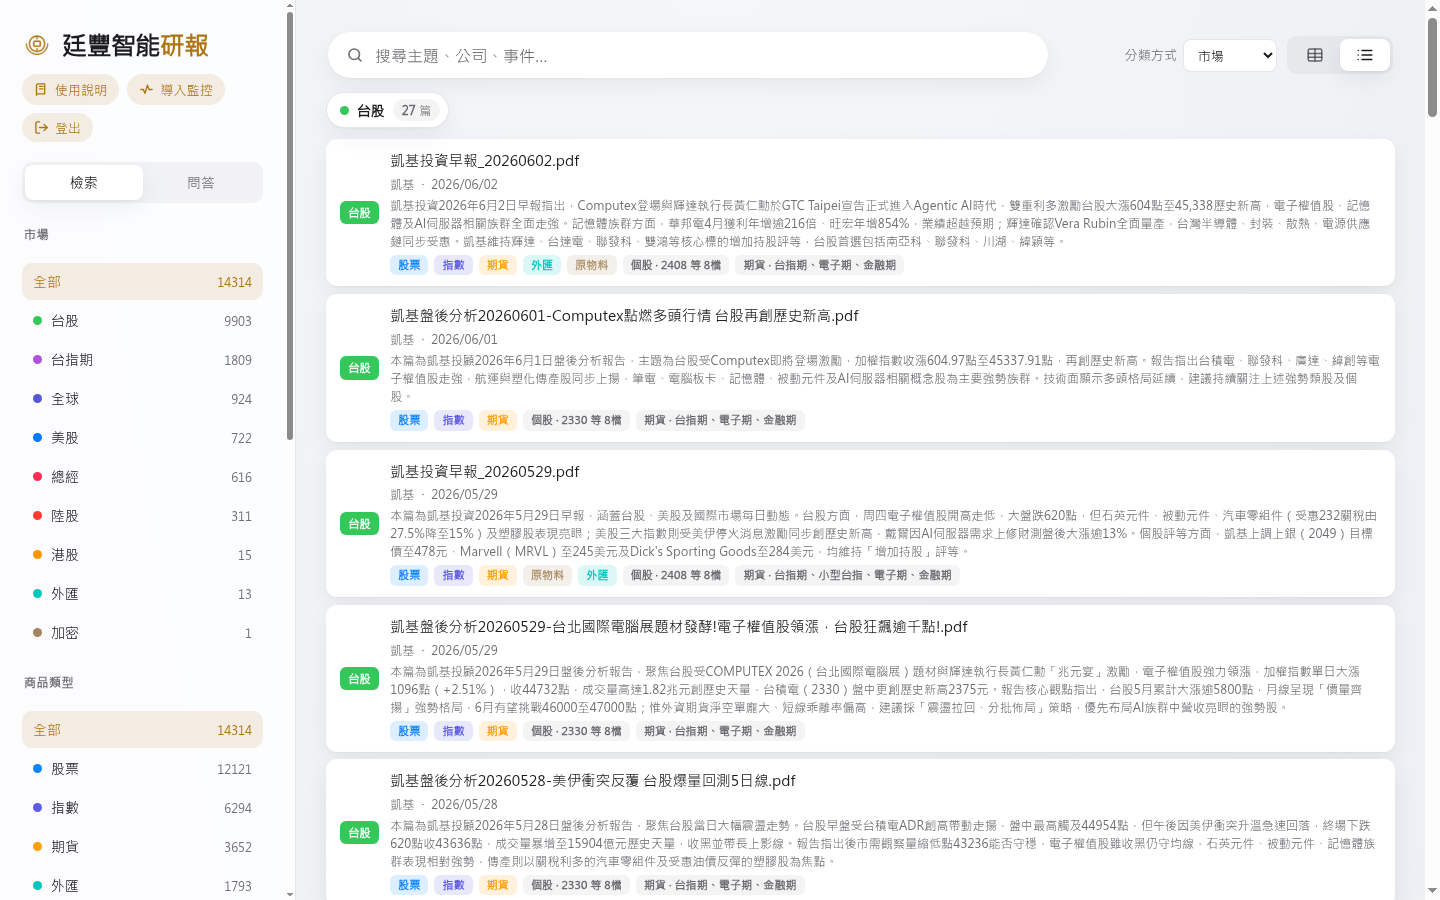
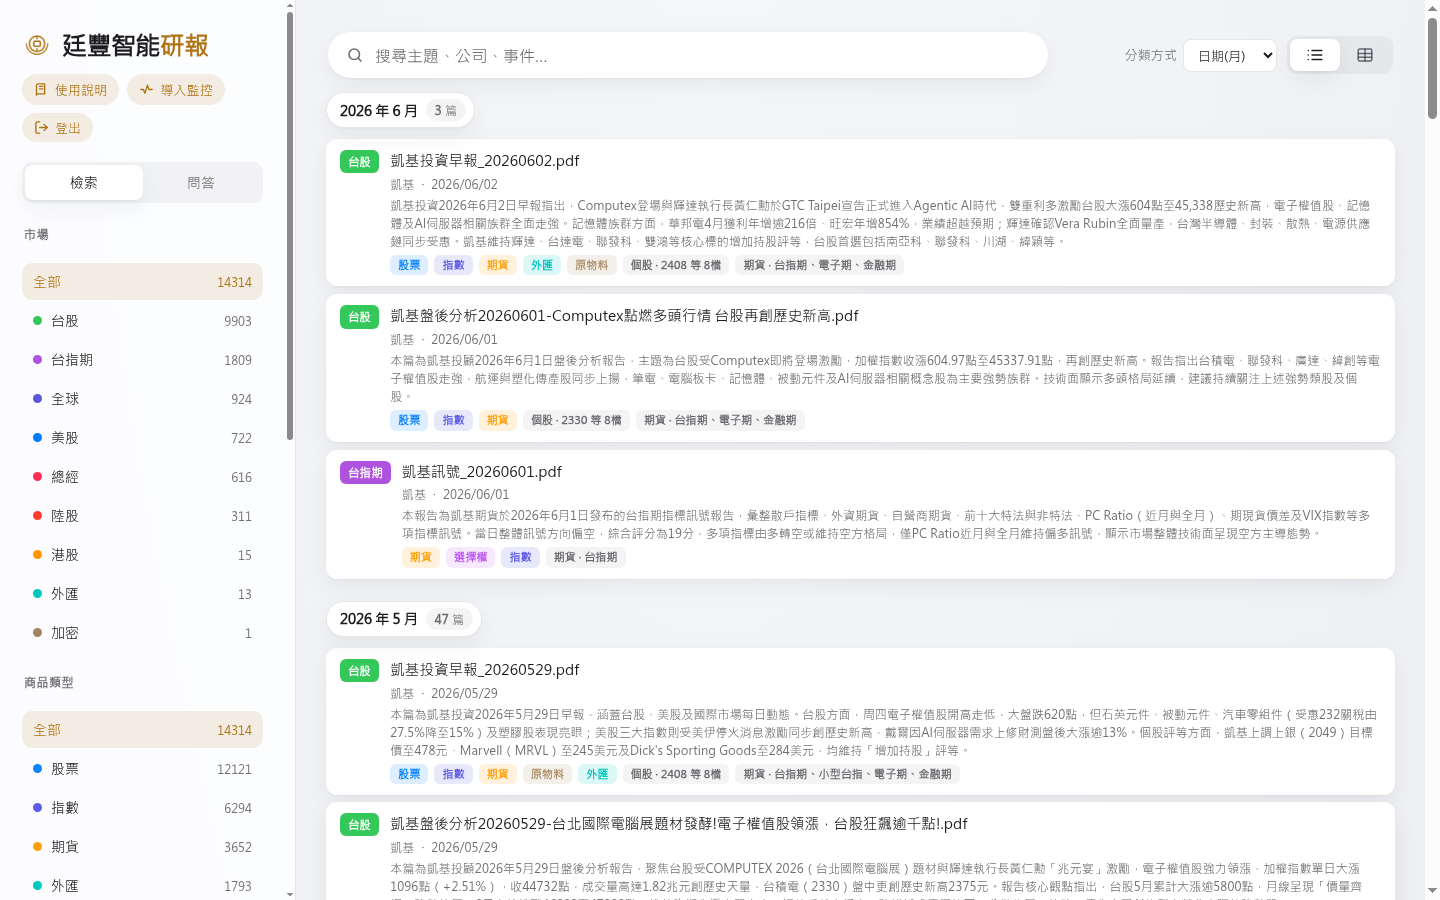
feat(ui): 檢視切換列表/表格對調、預設列表＋分類預設日期
- view-switch 兩鈕順序對調：列表在前、表格在後；VIEWS 同步改 ["group","table"]
  以對齊平移方向與方向鍵巡覽
- 滑塊 :has() 改指向 table（現為第 2 顆）→ 預設列表時滑塊在左
- 分類方式（分組依據）預設由「市場」改「日期(月)」：state.group="month"、
  url.js 非預設才寫入改判 month、groupBy 預設選項加 selected
- 同步文件/截圖：help §5 標籤改「分類方式」並註明預設日期；重截 01-home／
  02-results（現以「YYYY 年 M 月」分組）

實機驗證：按鈕序 [列表(checked)][表格]、groupBy=month、首組「2026 年 6 月」、
mode-group 預設。

diff --git a/web/static/index.html b/web/static/index.html
@@ -271,7 +271,7 @@
     top: 3px; bottom: 3px; left: 3px; width: calc((100% - 6px) / 2);
     background: var(--card); box-shadow: var(--shadow); border-radius: 8px;
     transition: transform var(--dur-4) var(--ease-out); }
-  .view-switch:has([data-view="group"][aria-checked="true"])::before { transform: translateX(100%); }
+  .view-switch:has([data-view="table"][aria-checked="true"])::before { transform: translateX(100%); }
   .view-switch button { position: relative; z-index: 1; display: inline-flex; align-items: center;
     justify-content: center; border: none; background: transparent; font-family: inherit;
     color: var(--label-2); padding: 7px 16px; border-radius: 8px; cursor: pointer; transition: color .18s; }
@@ -762,15 +762,15 @@
               <select id="groupBy" aria-label="分類方式">
                 <option value="market">市場</option>
                 <option value="report_type">報告類型</option>
-                <option value="month">日期(月)</option>
+                <option value="month" selected>日期(月)</option>
               </select>
             </div>
             <div class="view-switch" role="radiogroup" aria-label="檢視方式">
-              <button type="button" role="radio" data-view="table" aria-checked="false" tabindex="-1" aria-label="表格檢視" title="表格">
-                <svg viewBox="0 0 24 24" fill="none" stroke="currentColor" stroke-width="2" stroke-linecap="round" stroke-linejoin="round" aria-hidden="true"><rect x="3" y="4" width="18" height="16" rx="2"/><line x1="3" y1="10" x2="21" y2="10"/><line x1="3" y1="15" x2="21" y2="15"/><line x1="12" y1="4" x2="12" y2="20"/></svg>
-              </button>
               <button type="button" role="radio" data-view="group" aria-checked="true" aria-label="列表檢視" title="列表">
                 <svg viewBox="0 0 24 24" fill="none" stroke="currentColor" stroke-width="2" stroke-linecap="round" stroke-linejoin="round" aria-hidden="true"><line x1="8" y1="6" x2="21" y2="6"/><line x1="8" y1="12" x2="21" y2="12"/><line x1="8" y1="18" x2="21" y2="18"/><line x1="3" y1="6" x2="3.01" y2="6"/><line x1="3" y1="12" x2="3.01" y2="12"/><line x1="3" y1="18" x2="3.01" y2="18"/></svg>
+              </button>
+              <button type="button" role="radio" data-view="table" aria-checked="false" tabindex="-1" aria-label="表格檢視" title="表格">
+                <svg viewBox="0 0 24 24" fill="none" stroke="currentColor" stroke-width="2" stroke-linecap="round" stroke-linejoin="round" aria-hidden="true"><rect x="3" y="4" width="18" height="16" rx="2"/><line x1="3" y1="10" x2="21" y2="10"/><line x1="3" y1="15" x2="21" y2="15"/><line x1="12" y1="4" x2="12" y2="20"/></svg>
               </button>
             </div>
           </div>

diff --git a/web/static/help.html b/web/static/help.html
@@ -212,7 +212,7 @@
       <h3>檢視方式</h3>
       <p>結果<strong>右上角</strong>有兩個<strong>檢視切換</strong>圖示，可改變報告呈現方式（瀏覽與搜尋都適用），切換時<strong>不會重新查詢</strong>：</p>
       <ul class="bul">
-        <li><span class="tag-inline">列表</span>（預設）：依<strong>市場／報告類型／日期(月)</strong>分組，每組附篇數；一列一篇、附<strong>完整摘要</strong>。右上的<strong>「分組依據」</strong>可切換分組方式。</li>
+        <li><span class="tag-inline">列表</span>（預設）：分組顯示，每組附篇數；一列一篇、附<strong>完整摘要</strong>。右上的<strong>「分類方式」</strong>可切換分組依據——<strong>日期(月)</strong>（預設）／市場／報告類型。</li>
         <li><span class="tag-inline">表格</span>：以欄位排列（名稱／市場／類型／日期／來源／標的），點<strong>欄位標題</strong>可排序。</li>
       </ul>
       <div class="note">分組與表格的<b>欄位排序</b>只作用於<b>目前已載入</b>的報告；瀏覽很多篇時，先點「載入更多」再排序／分組。系統會<b>記住</b>你慣用的檢視方式。</div>

diff --git a/web/static/app/state.js b/web/static/app/state.js
@@ -4,14 +4,14 @@
  */
 
 // ── 單一狀態物件：使用者意圖（可分享/可還原）＋ 目前結果快取，集中管理避免多處走樣 ──
-export const VIEWS = ["table", "group"];   // group 顯示名稱為「列表」（仍依市場等分組渲染）
+export const VIEWS = ["group", "table"];   // 視覺順序：列表（group，預設）→ 表格；group 仍依分組渲染
 export const GROUPS = ["market", "report_type", "month"];
 export const state = {
   // 篩選 / 排序 / 檢視意圖
   market: "全部", instrument: "全部", relStock: false, relFutures: false,
   type: "全部",
   sort: "date_desc",            // 初值對齊首屏瀏覽預設，避免載入時 chip 自跳
-  view: "group", group: "market",   // 預設「列表」（分組）；卡片/列表(平鋪) 已移除
+  view: "group", group: "month",   // 預設「列表」檢視、分組依據預設「日期(月)」
   tableSort: { key: null, dir: "asc" },
   lastQuery: "",
   // 頂層模式：retrieval（檢索：瀏覽/搜尋）｜ ask（問答）。與下方結果快取用的 mode 區隔。

diff --git a/web/static/app/url.js b/web/static/app/url.js
@@ -25,7 +25,7 @@ export function syncURL() {
   if (state.type !== "全部") p.set("type", state.type);
   if (state.sort) p.set("sort", state.sort);
   if (state.view !== "group") p.set("view", state.view);
-  if (state.view === "group" && state.group !== "market") p.set("group", state.group);
+  if (state.view === "group" && state.group !== "month") p.set("group", state.group);
   const qs = p.toString();
   history.replaceState(null, "", qs ? "?" + qs : location.pathname);
   updateFilterToggle();
